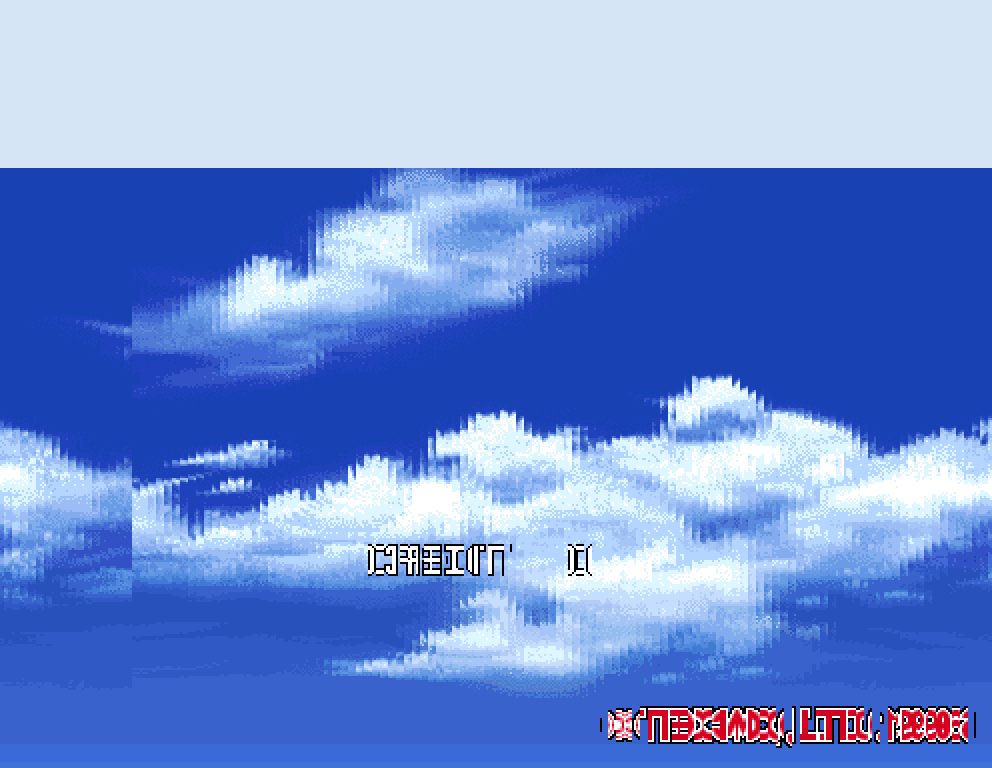
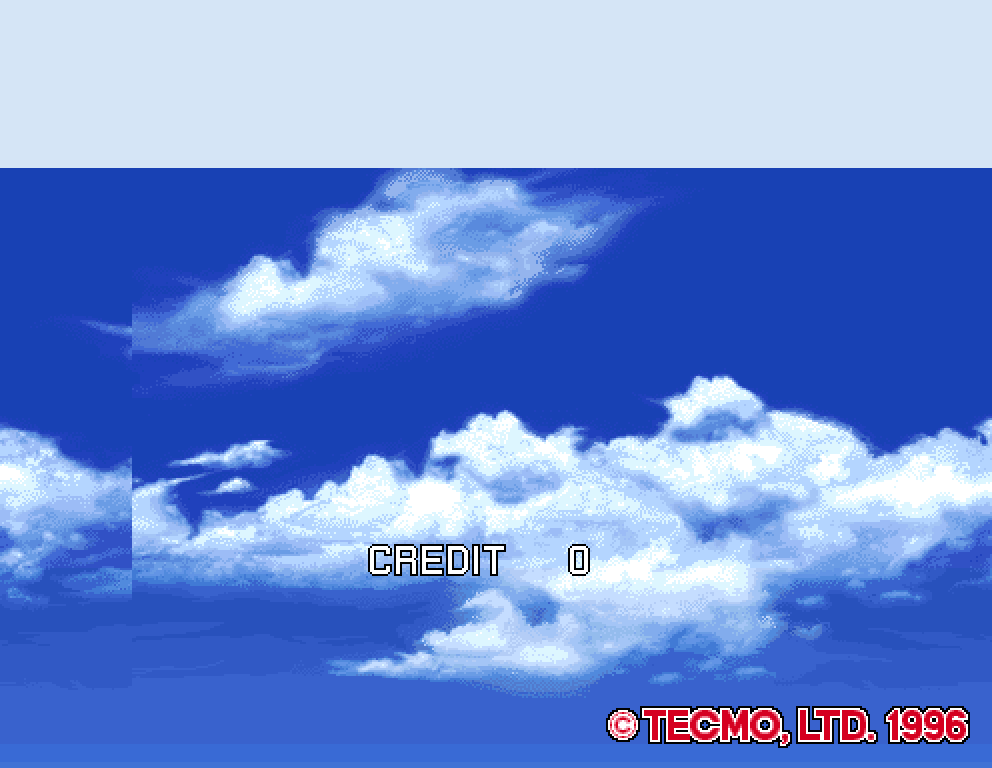
fix: correct System 24 tile nibble/byte order (fixes text combing)
The char tile decoder read four bitplanes LSB-first from the raw byte
array, which visited each 16-bit char word's byte pairs in the wrong
order. MAME's gfx_element builds the tile over a uint16_t array with
NATIVE_ENDIAN_VALUE_LE_BE(8,0), so the byte index is XORed with 1; the
validated sm2_emu port documents that omitting the XOR 'swaps pixels in
pairs, which looks almost right'.

Rewrite tile_pixel() as the two-pixels-per-byte, high-nibble-first
decode with index ^ 1, mirroring sm2_emu decode_tile_pixel(). Text
glyphs and cloud backgrounds no longer comb.

diff --git a/src/video.cpp b/src/video.cpp
@@ -20,12 +20,8 @@ namespace sage {
 namespace {
 
 // System 24 tile generator geometry (segas24_tile_device::char_layout): 8x8
-// tiles, 4 planes, planeoffset {0,1,2,3}, xoffset STEP8(0,4), yoffset
-// STEP8(0,32), charincrement 8*32 = 256 bits (16 words) per tile. The decoded
-// bit for pixel (x,y) plane p is at `code*256 + p + y*32 + x*4`, read LSB-first
-// from the byte array; xormask 8 (see NATIVE_ENDIAN_VALUE_LE_BE) swaps the two
-// bytes of each 16-bit char word relative to the i960's big-endian store.
-constexpr int kTileBits = 8 * 32;
+// tiles, 4 planes, two pixels per byte, 32 bytes per tile. Tile RAM is 64x64
+// cells; MAME indexes it as 16-bit words at 0x0000/0x1000/0x2000/0x3000.
 constexpr int kTilemapDim = 64;  // 64x64 tiles
 
 // Palette / colour-translation layout (all byte offsets from 0x01800000).
@@ -157,20 +153,19 @@ void Video::rebuild_palette() {
     m_palette_dirty = false;
 }
 
-// Decodes one tile pixel: 8x8, 4 planes. Plane p of pixel (x,y) lives at bit
-// `code*256 + p + y*32 + x*4`, read LSB-first; bit order per MAME gfx_element.
+// Decodes one tile pixel: 8x8, 4 planes, two pixels per byte, high nibble
+// first (segas24_tile_device::char_layout, planes {0,1,2,3}, xoffset STEP8(0,4),
+// yoffset STEP8(0,32), charincrement 32 bytes). The byte index is XORed with
+// one because MAME builds the graphics element over a 16-bit array with a
+// little-endian byte swap (NATIVE_ENDIAN_VALUE_LE_BE(8,0)); without it each
+// pair of bytes is read swapped and the image combs. Mirrors sm2_emu
+// decode_tile_pixel().
 int tile_pixel(const std::vector<std::uint8_t>& chram, int code, int x, int y) {
-    const int base = (code & 0x3fff) * kTileBits;
-    int pen = 0;
-    for (int p = 0; p < 4; ++p) {
-        const int b = base + p + y * 32 + x * 4;
-        const std::size_t off = static_cast<std::size_t>(b >> 3);
-        if (off >= chram.size())
-            continue;
-        if (chram[off] & (1 << (b & 7)))
-            pen |= 1 << p;
-    }
-    return pen;
+    const int index = (code & 0x3fff) * 32 + ((y * 4 + (x >> 1)) ^ 1);
+    if (index < 0 || static_cast<std::size_t>(index) >= chram.size())
+        return 0;
+    const std::uint8_t byte = chram[static_cast<std::size_t>(index)];
+    return (x & 1) == 0 ? (byte >> 4) : (byte & 0x0f);
 }
 
 void Video::draw_tile_layers(int group) {
